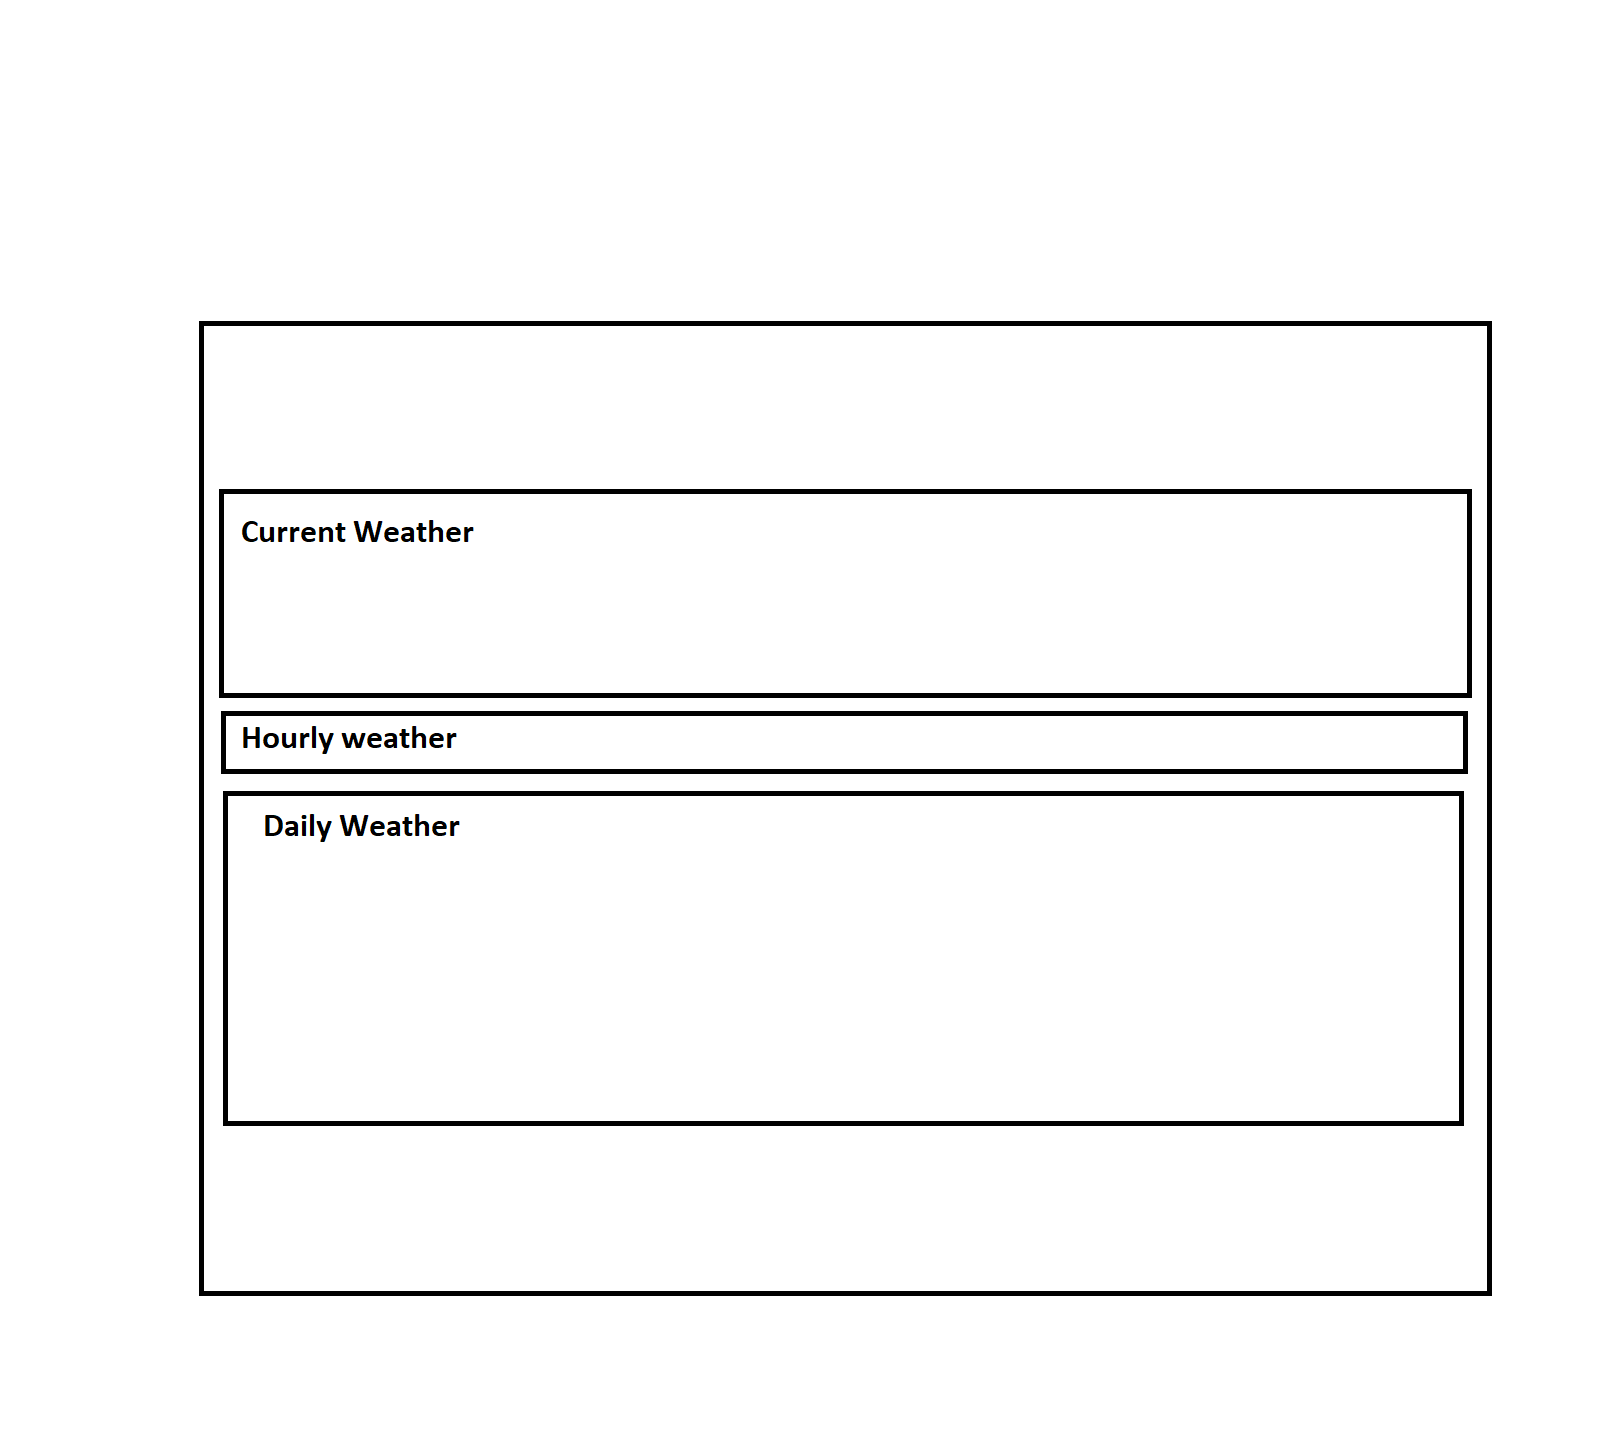
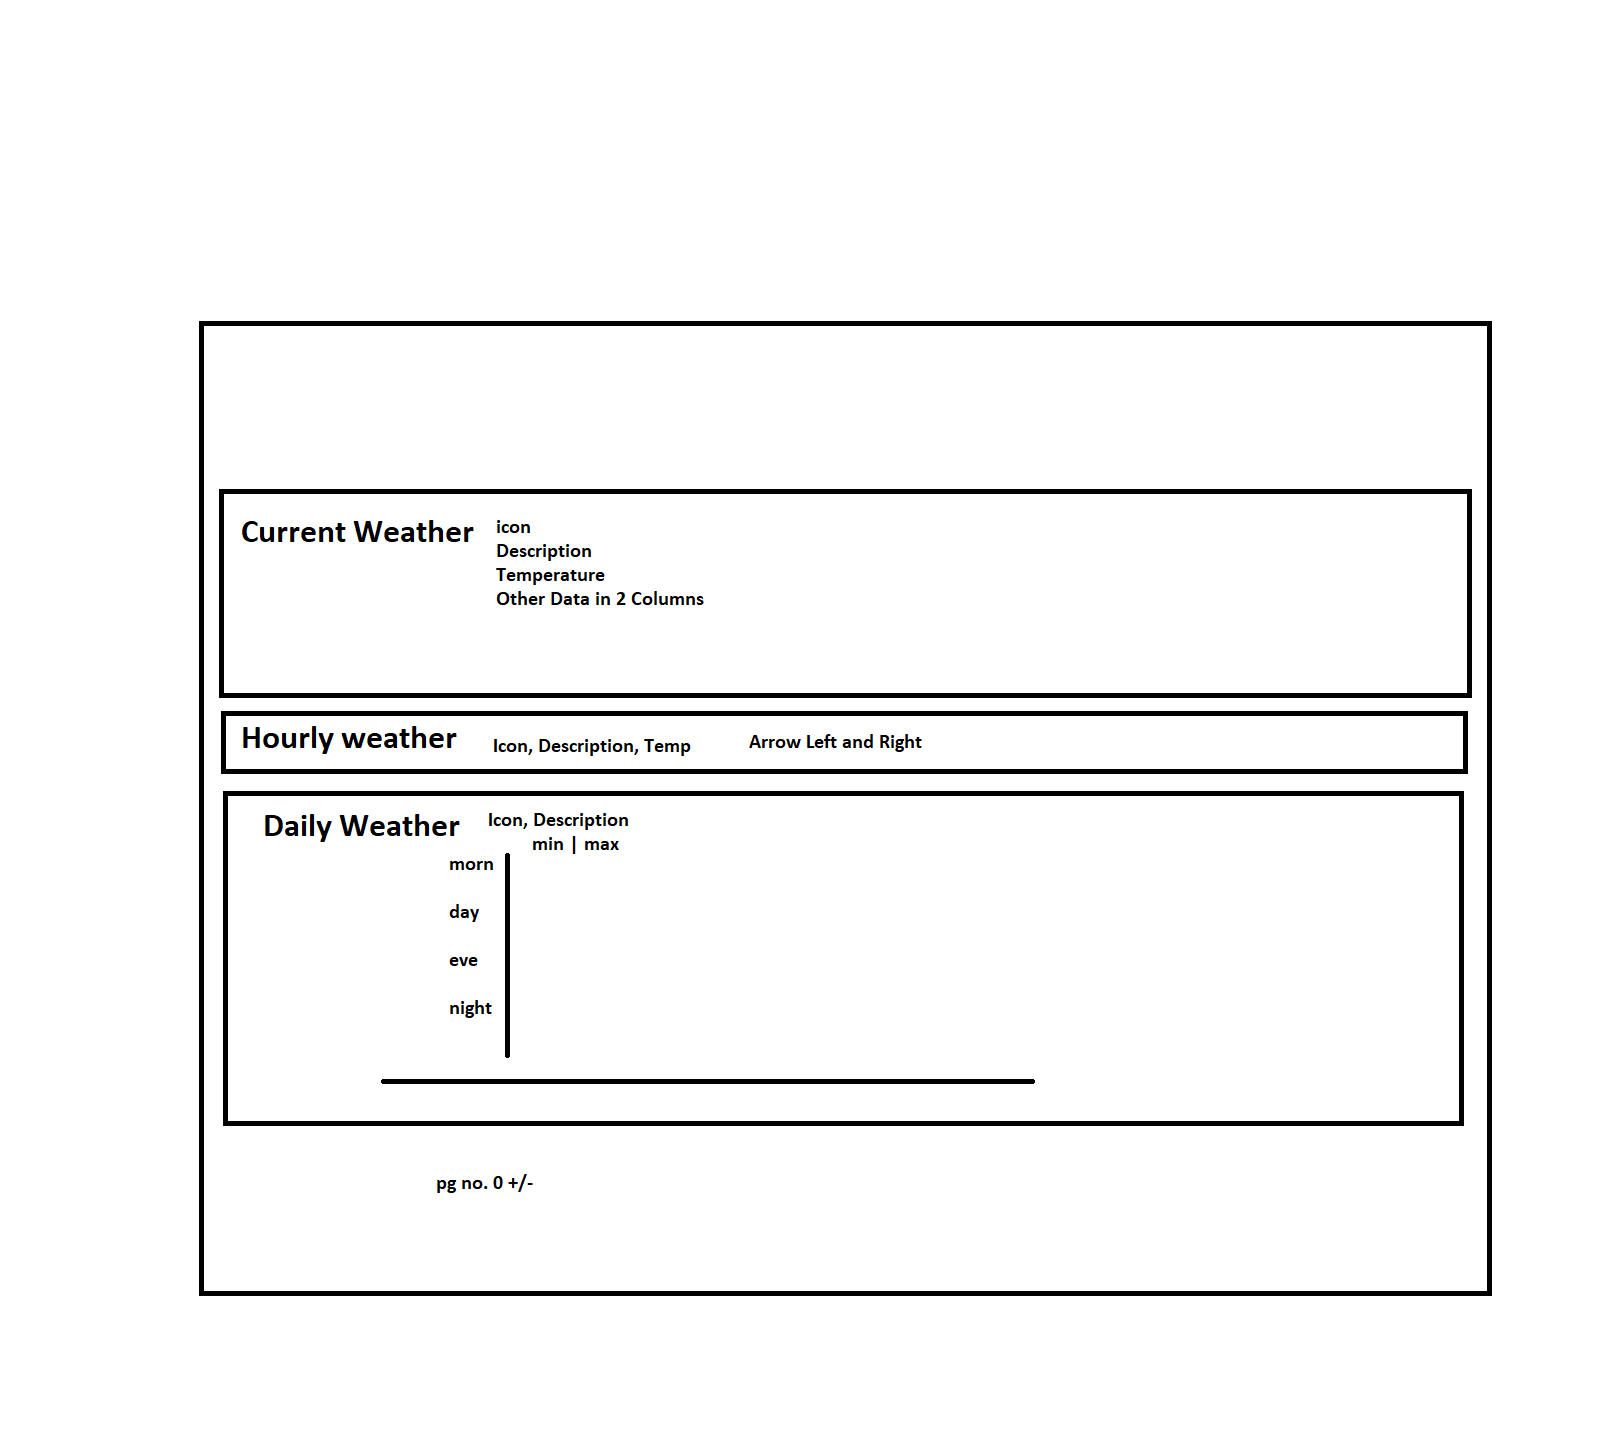
Added Search by City functionality

diff --git a/src/components/weather.js b/src/components/weather.js
@@ -1,18 +1,31 @@
-import CurrentWeather from "./currentWeather";
-import DailyWeather from "./dailyWeather";
-import HourlyWeather from "./hourlyWeather";
+import Header from "./Header";
 import { useState, useEffect } from "react";
+import SearchWeather from "./searchWeather";
 
 
 function Weather() {
     const [weather, setWeather] = useState({});
+    const [cityName, setCityName] = useState("");
+    const [isCity, setIsCity] = useState(true);
     const [isLoaded, setIsLoaded] = useState(false);
+    const [finalWeather, setFinalWeather] = useState({});
+    useEffect(() => {
+        if (!isCity) {
+            setFinalWeather(weather[0]);
+        }
+        else {
+            setFinalWeather(weather);
+        }
+    }, [weather, isLoaded, isCity])
+    
 
     useEffect(() => {
         getLocation();
     }, []);
 
     const getWeather = async (lat, long) => {
+        setIsLoaded(false);
+        setIsCity(false);
         const key = "6d1b67f5e9541101ce7b395acb1ec866";
         try {
             const response = await fetch(`https://api.openweathermap.org/data/2.5/onecall?lat=${lat}&lon=${long}&exclude={part}&appid=${key}`);
@@ -26,7 +39,7 @@ function Weather() {
             console.log(e);
         }
     }
-    
+
     const getLocation = () => {
         //navigator = interface representing state and identity of user
         //geolocation = API returning accessing location of device 
@@ -45,18 +58,44 @@ function Weather() {
         }
     }
     console.log(weather);
-    if(isLoaded){
+
+    const searchWeatherCall = async (val) => {
+        console.log(val);
+        setIsCity(true);
+        setIsLoaded(false);
+        try {
+            const key = "6d1b67f5e9541101ce7b395acb1ec866"
+            const searchResponse = await fetch(`https://api.openweathermap.org/data/2.5/weather?q=${val}&appid=${key}`);
+            const searchWeatherResult = await searchResponse.json();
+            console.log(searchWeatherResult);
+            const currSearchedWeather = {
+                weather: searchWeatherResult.weather,
+                feels_like: searchWeatherResult.main.feels_like,
+                temp: searchWeatherResult.main.temp,
+                humidity: searchWeatherResult.main.humidity,
+                pressure: searchWeatherResult.main.pressure,
+                visibility: searchWeatherResult.sys.visibility,
+                wind_speed: searchWeatherResult.wind.speed
+            }
+            setCityName(val)
+            setWeather(currSearchedWeather);
+            setIsLoaded(true);
+        }
+        catch (e) {
+            console.log(e);
+        }
+    }
+
+    if (isLoaded) {
         return (
-            <div className="weather">
-                weather
-                <CurrentWeather currweather = {weather[0].current} />
-                <HourlyWeather hourlyweather={weather[0].hourly}/>
-                <DailyWeather dailyweather={weather[0].daily}/>
-            </div>
-        );
+            <>
+            <Header search={searchWeatherCall} />
+            <SearchWeather finalWeather={finalWeather} isCity={isCity} cityName={cityName}/>
+            </>
+            );
     }
     else return (
-        <div>
+        <div className="weather">
             Loading...
         </div>
     )

diff --git a/src/components/searchWeather.js b/src/components/searchWeather.js
@@ -1,0 +1,30 @@
+import { capitalizeFirstLetter } from "../utilties/converters"
+import CurrentWeather from "./currentWeather"
+import DailyWeather from "./dailyWeather"
+import HourlyWeather from "./hourlyWeather"
+
+export default function SearchWeather(props){
+    if(props.isCity) {
+        return(
+            <div className="weather">
+                    <div className="city-name">
+                    <h2>{capitalizeFirstLetter(props.cityName)}</h2>  
+                    </div>
+                    <CurrentWeather currweather = {props.finalWeather} />
+                    <div className="Disclaimer">
+                        To view detailed current, hourly and weekly weather forecast enable location.
+                    </div>
+            </div>
+        )
+    }
+    else{
+       return(
+        <div className="weather">
+            <CurrentWeather currweather = {props.finalWeather.current} />
+            <HourlyWeather hourlyweather={props.finalWeather.hourly}/>
+            <DailyWeather dailyweather={props.finalWeather.daily}/>
+    </div>
+       ) 
+    }
+    
+}

diff --git a/src/components/Header.js b/src/components/Header.js
@@ -1,0 +1,28 @@
+import {useState} from "react";
+
+function Header(props){
+    const [searchVal, setSearchVal] = useState("");
+    const handleChange = (event)=>{
+        setSearchVal(event.target.value);
+    }
+
+    const handleSearch = (e)=>{
+        props.search(searchVal)
+    }
+    return(
+        <div className="header">
+            <div className="title">
+                Weather App
+            </div>
+            <div className="search-bar">
+                <input value={searchVal} onChange={handleChange} placeholder="Search..."></input>
+                <button onClick={handleSearch}>🔍</button>
+            </div>
+        </div>
+    )
+}
+
+
+//icon, main, feels_like, temp, humidity, pressure, wind_speed, visibility
+
+export default Header;

diff --git a/src/utilties/converters.js b/src/utilties/converters.js
@@ -33,3 +33,7 @@ export const getTodayTomorrow = (date)=>{
     if(date.indexOf(currentDate.getDate())==0) return "Today";
     else return "Tomorrow";
 }
+
+export function capitalizeFirstLetter(string) {
+    return string.charAt(0).toUpperCase() + string.slice(1);
+  }

diff --git a/src/components/currentWeather.js b/src/components/currentWeather.js
@@ -1,7 +1,6 @@
 import {convertToCelsius} from "../utilties/converters";
 
 function CurrentWeather(props){
-
     return(
         <div className="current-weather">
             <h2>Today's Weather</h2>
